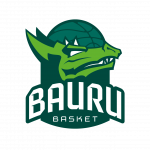
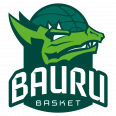
Escudos do Coritiba e Bauru sem borda vazia (apareciam pequenos) e em tamanho leve
Claude-Session: https://claude.ai/code/session_01KURSQmz2BHfMakW4thM8Jz

diff --git a/sw.js b/sw.js
@@ -1,5 +1,5 @@
 // FlaFan — permite abrir o app mesmo sem internet (mostra a última lista baixada).
-const VERSAO = 'flafan-v36';
+const VERSAO = 'flafan-v37';
 const ARQUIVOS = ['./', 'index.html', 'styles.css', 'app.js', 'manifest.webmanifest', 'icons/icon-192.png', 'icons/icon-512.png',
   'fonts/barlow-latin-400-normal.woff2', 'fonts/barlow-latin-500-normal.woff2', 'fonts/barlow-latin-600-normal.woff2', 'fonts/barlow-latin-700-normal.woff2',
   'fonts/barlow-condensed-latin-600-normal.woff2', 'fonts/barlow-condensed-latin-700-normal.woff2', 'fonts/barlow-condensed-latin-800-normal.woff2', 'fonts/barlow-condensed-latin-800-italic.woff2'];
